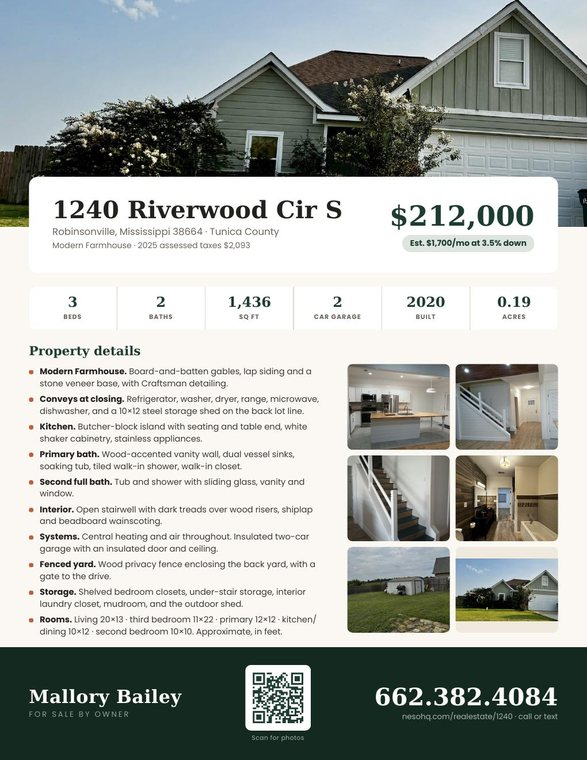
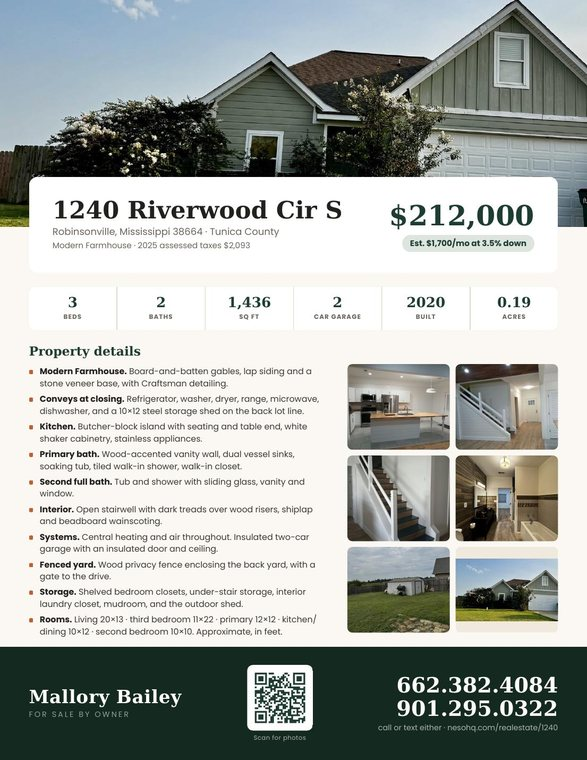
Add files via upload

diff --git a/realestate/1240.html b/realestate/1240.html
@@ -139,7 +139,7 @@ h2.big{font-size:clamp(1.5rem,4vw,2.15rem);font-weight:600;line-height:1.2}
 @media(max-width:560px){.incl.four,.incl.six{grid-template-columns:repeat(2,1fr)}}
 
 /* ---- room dimensions ---- */
-.rooms{display:grid;grid-template-columns:repeat(6,1fr);gap:12px;margin-top:24px}
+.rooms{display:grid;grid-template-columns:repeat(5,1fr);gap:12px;margin-top:24px}
 .rm{padding:16px 15px}
 .rm .dm{font-size:1.45rem}
 @media(max-width:1040px){.rooms{grid-template-columns:repeat(3,1fr)}}
@@ -233,8 +233,11 @@ h2.big{font-size:clamp(1.5rem,4vw,2.15rem);font-weight:600;line-height:1.2}
 .foot{background:var(--forest-d);color:#fff;padding:58px 22px 40px;text-align:center;margin-top:20px}
 .foot h2{font-size:clamp(1.4rem,4vw,2rem);color:#fff;font-weight:600}
 .foot .role{font-size:.8rem;letter-spacing:2px;text-transform:uppercase;color:var(--sage);margin-top:6px}
-.foot .num{display:inline-block;font-family:Fraunces,serif;font-size:clamp(1.7rem,6vw,2.6rem);
-  font-weight:700;margin:22px 0 4px;color:#fff;text-decoration:none}
+.foot .nums{display:flex;flex-wrap:wrap;justify-content:center;align-items:baseline;
+  gap:10px 18px;margin:22px 0 4px}
+.foot .num{font-family:Fraunces,serif;font-size:clamp(1.45rem,5vw,2.3rem);
+  font-weight:700;color:#fff;text-decoration:none}
+.foot .numsep{color:var(--sage);font-size:.9rem}
 .foot .num:hover{color:var(--clay)}
 .disc{max-width:720px;margin:36px auto 0;padding-top:22px;border-top:1px solid rgba(255,255,255,.13);
   font-size:.76rem;color:#8C978F;line-height:1.7}
@@ -367,7 +370,6 @@ h2.big{font-size:clamp(1.5rem,4vw,2.15rem);font-weight:600;line-height:1.2}
     <div class="rm"><div class="nm">Primary bedroom</div><div class="dm">12 × 12</div><div class="sf">144 sq ft</div></div>
     <div class="rm"><div class="nm">Kitchen &amp; dining</div><div class="dm">10 × 12</div><div class="sf">120 sq ft</div></div>
     <div class="rm"><div class="nm">Second bedroom</div><div class="dm">10 × 10</div><div class="sf">100 sq ft</div></div>
-    <div class="rm"><div class="nm">Mudroom</div><div class="dm">Included</div></div>
   </div>
   <p class="rmnote"><b>Dimensions are approximate</b>, measured by the owner and stated in feet. Verify before
   relying on them for furniture, flooring or appliances.</p>
@@ -429,7 +431,8 @@ h2.big{font-size:clamp(1.5rem,4vw,2.15rem);font-weight:600;line-height:1.2}
     <div class="eyebrow">Showings</div>
     <h2 class="big" style="margin:0 auto">Request a tour</h2>
     <p class="lede" style="margin:11px auto 0">Private showings by appointment. Provide a first choice and an
-    alternate; the owner will confirm a time.</p>
+    alternate; the owner will confirm a time. To speak to someone now, call or text <b>662.382.4084</b> or
+    <b>901.295.0322</b>.</p>
   </div>
 
   <div class="form-card">
@@ -468,7 +471,8 @@ h2.big{font-size:clamp(1.5rem,4vw,2.15rem);font-weight:600;line-height:1.2}
     </form>
 
     <div class="msg good" id="ok"><b>Request received.</b><br>The owner will confirm a time. For a faster response,
-      call or text <a href="tel:+16623824084" style="color:#1E4A36;font-weight:700">662.382.4084</a>.</div>
+      call or text <a href="tel:+16623824084" style="color:#1E4A36;font-weight:700">662.382.4084</a>
+      or <a href="tel:+19012950322" style="color:#1E4A36;font-weight:700">901.295.0322</a>.</div>
 
     <div class="msg fall" id="fall">
       <b>The request could not be submitted. Nothing has been lost.</b><br>
@@ -481,8 +485,12 @@ h2.big{font-size:clamp(1.5rem,4vw,2.15rem);font-weight:600;line-height:1.2}
 <footer class="foot">
   <h2 class="disp">Mallory Bailey</h2>
   <div class="role">For Sale By Owner</div>
-  <a class="num" href="tel:+16623824084">662.382.4084</a>
-  <div style="font-size:.9rem;color:#A9B5AD">Call or text · private showings by appointment</div>
+  <div class="nums">
+    <a class="num" href="tel:+16623824084">662.382.4084</a>
+    <span class="numsep">or</span>
+    <a class="num" href="tel:+19012950322">901.295.0322</a>
+  </div>
+  <div style="font-size:.9rem;color:#A9B5AD">Call or text either number · private showings by appointment</div>
   <p class="disc">
     This property is offered <b>for sale by the owner personally.</b> NESO HQ LLC is not a real estate broker,
     agent or licensee, is not a party to any transaction arising from this page, and receives no commission or fee.

diff --git a/realestate/flyer-source.html b/realestate/flyer-source.html
@@ -57,7 +57,8 @@ li b{color:var(--ink);font-weight:700}
   padding:.26in .42in;display:flex;align-items:center;justify-content:space-between;gap:.24in}
 .foot .who{font-family:Fraunces,serif;font-size:19pt;font-weight:600;letter-spacing:.5px;line-height:1.1}
 .foot .role{font-size:8pt;letter-spacing:2.2px;text-transform:uppercase;color:var(--sage);margin-top:3px}
-.foot .num{font-family:Fraunces,serif;font-size:25pt;font-weight:700;line-height:1}
+.foot .num{font-family:Fraunces,serif;font-size:22pt;font-weight:700;line-height:1.1}
+.foot .num2{font-family:Fraunces,serif;font-size:22pt;font-weight:700;line-height:1.1;color:#fff}
 .foot .sub{font-size:8pt;color:#A9B5AD;margin-top:3px;text-align:right}
 .qr{background:#fff;padding:6px;border-radius:8px;width:.95in;height:.95in}
 .qr img{width:100%;height:100%}
@@ -134,7 +135,8 @@ li b{color:var(--ink);font-weight:700}
     </div>
     <div class="right">
       <div class="num">662.382.4084</div>
-      <div class="sub">nesohq.com/realestate/1240 · call or text</div>
+      <div class="num2">901.295.0322</div>
+      <div class="sub">call or text either &middot; nesohq.com/realestate/1240</div>
     </div>
   </div>
 
